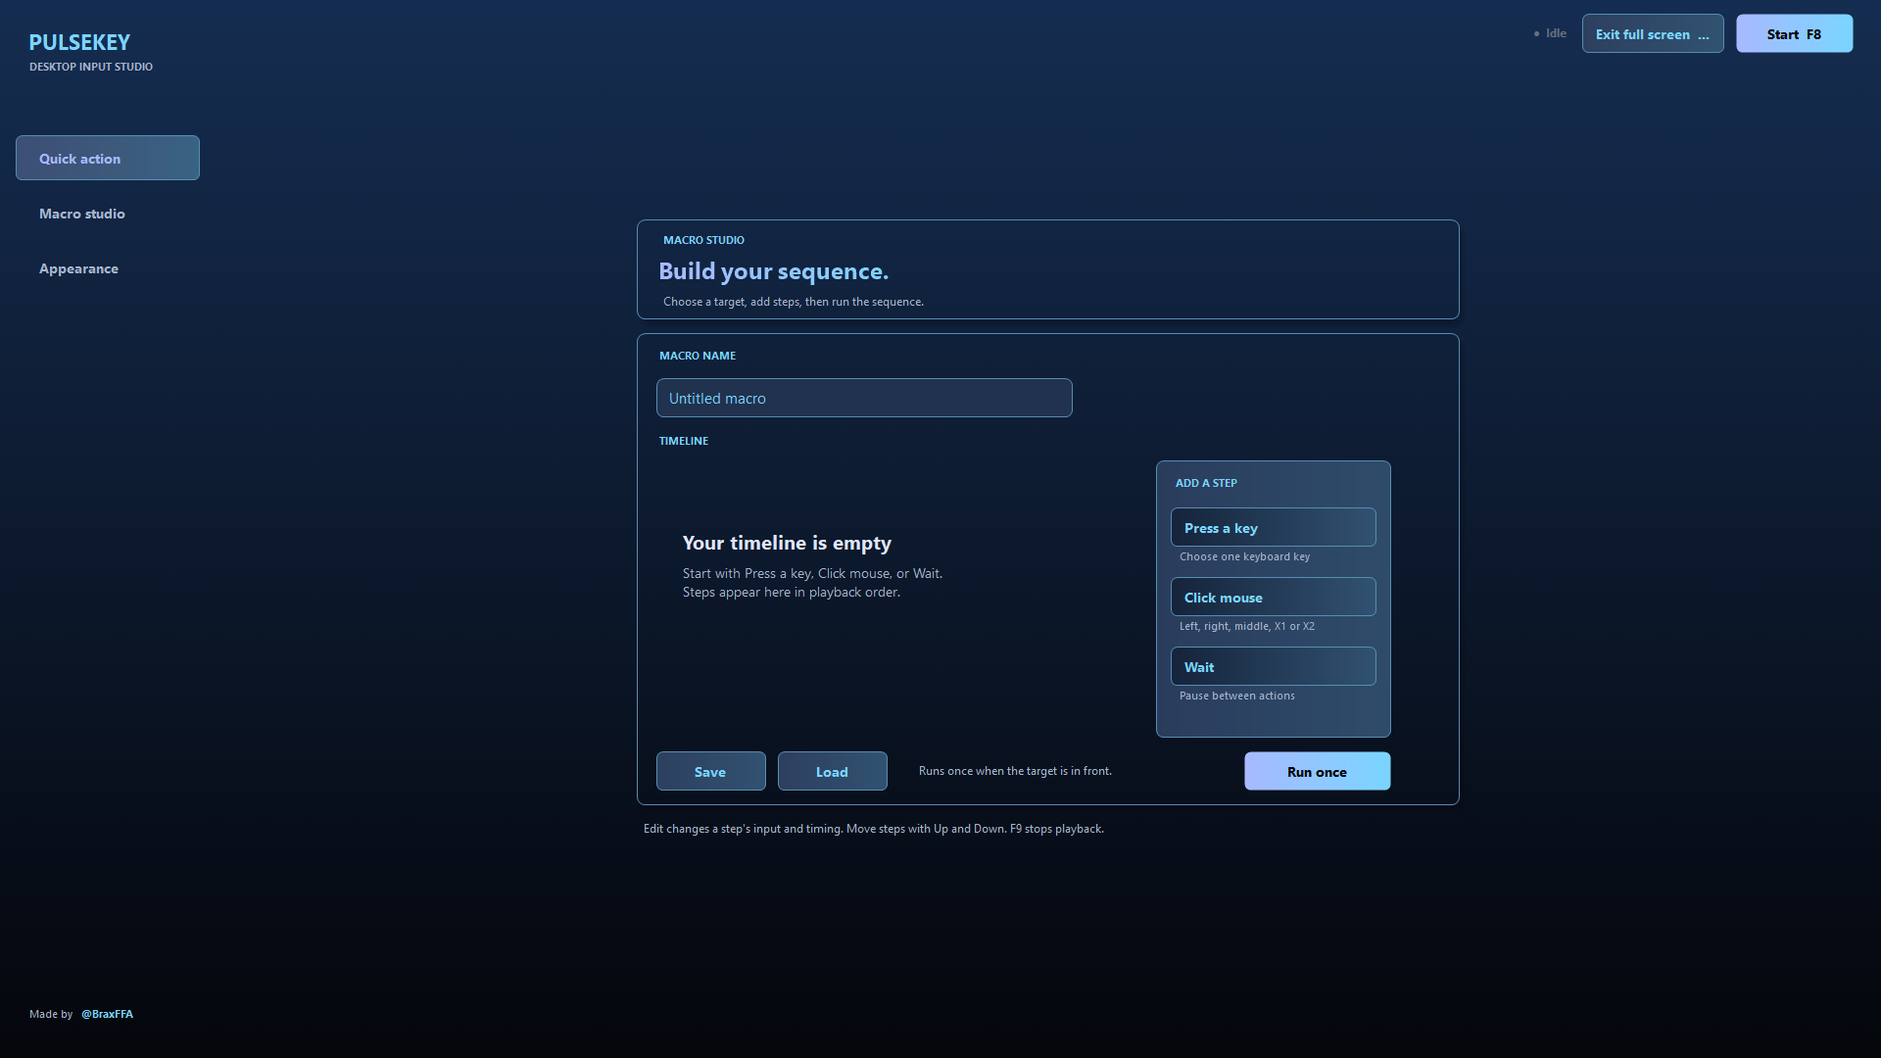
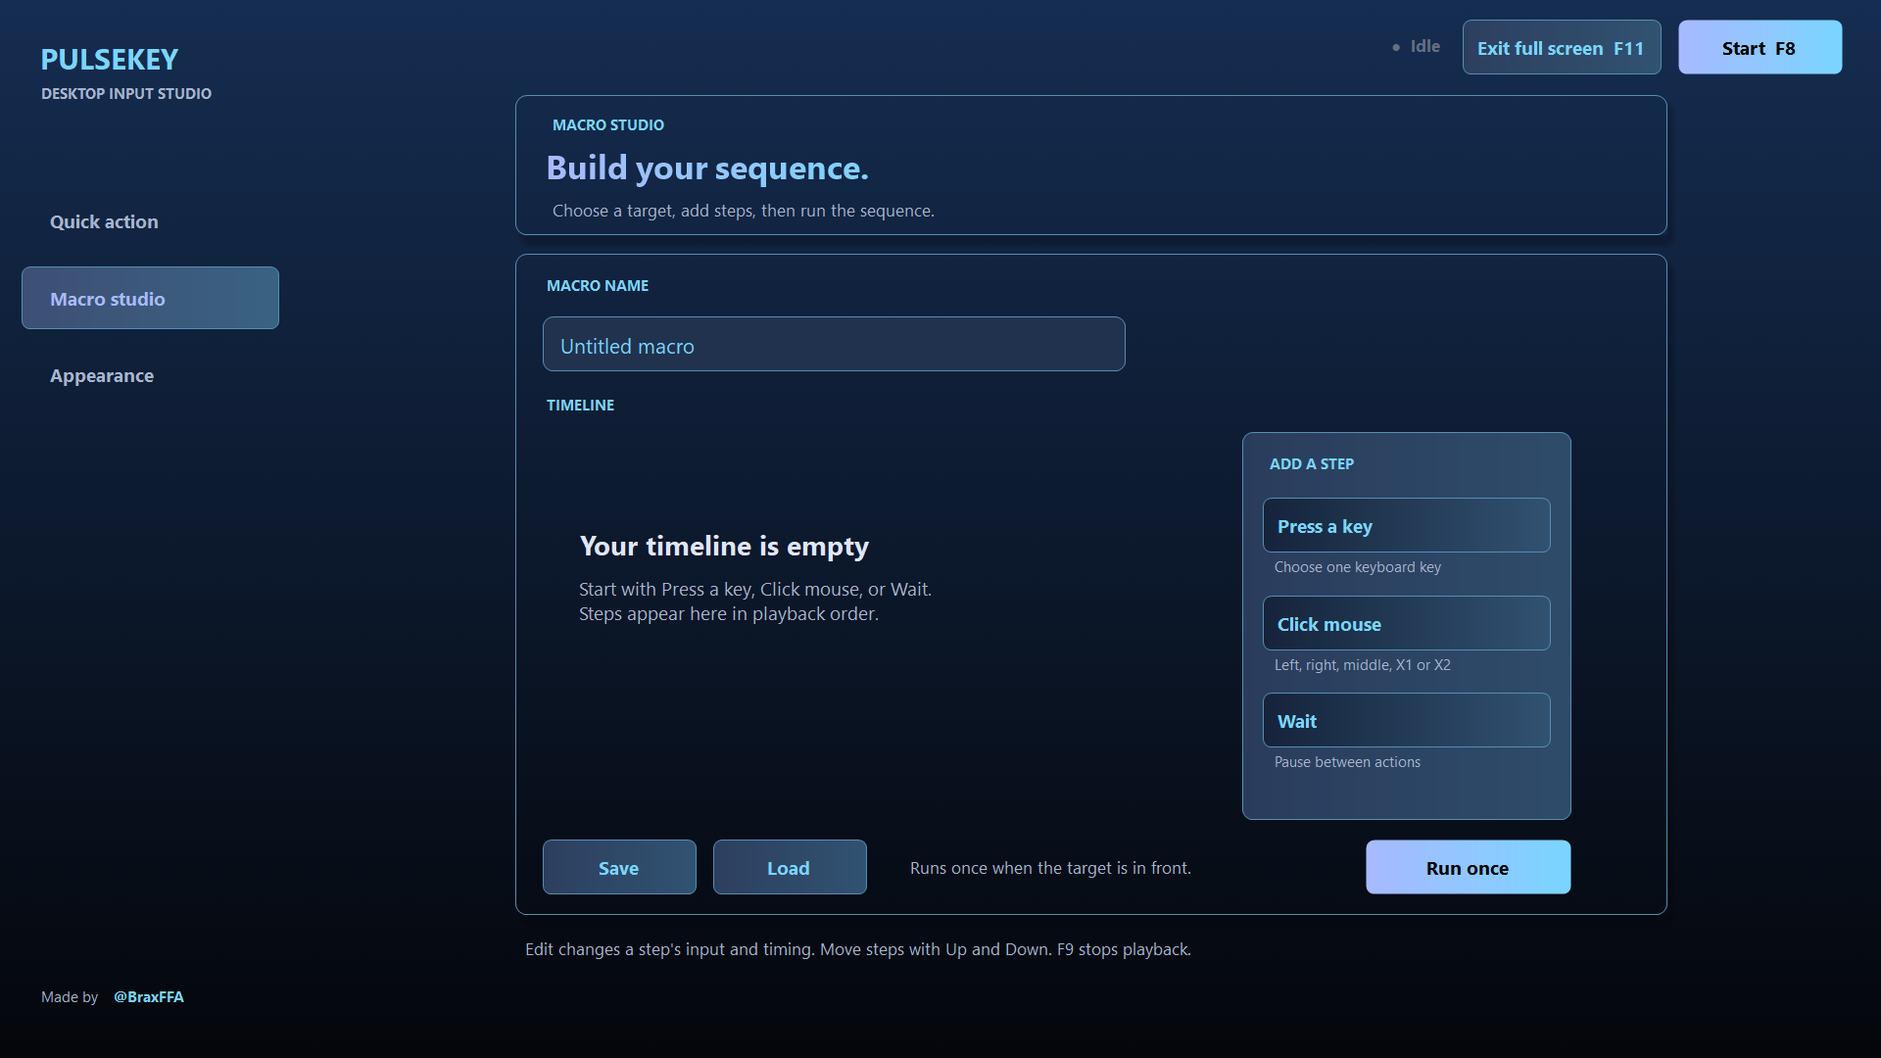
Scale PulseKey interface in full screen

diff --git a/src/PulseKey.cs b/src/PulseKey.cs
@@ -19,8 +19,8 @@ using System.Xml.Serialization;
 [assembly: System.Reflection.AssemblyProduct("PulseKey")]
 [assembly: System.Reflection.AssemblyCompany("@BraxFFA")]
 [assembly: System.Reflection.AssemblyCopyright("Copyright (c) 2026 @BraxFFA")]
-[assembly: System.Reflection.AssemblyVersion("1.0.1.0")]
-[assembly: System.Reflection.AssemblyFileVersion("1.0.1.0")]
+[assembly: System.Reflection.AssemblyVersion("1.0.2.0")]
+[assembly: System.Reflection.AssemblyFileVersion("1.0.2.0")]
 
 namespace PulseKey {
     [Serializable]
@@ -302,6 +302,15 @@ namespace PulseKey {
     }
 
     internal sealed class AppForm : Form {
+        private sealed class UiMetrics {
+            public Rectangle Bounds;
+            public Padding Padding;
+            public float FontSize;
+            public FontStyle FontStyle;
+            public string FontFamily;
+            public Font ScaledFont;
+            public int Radius;
+        }
         private static readonly ThemeSpec[] Themes={
             new ThemeSpec("Blue Eclipse","Midnight blue fades smoothly into black with lavender and icy-blue accents.","#152D51","#04060B","#15233B","#20324E","#A8B9FF","#DFE6FA","#A6B5CE","#334866","#79D5FF"),
             new ThemeSpec("Obsidian","Graphite and black with steel-blue and mist-violet accents.","#232B38","#05070A","#1D2633","#2A3748","#A7BCE0","#E2EAF5","#A7B6C9","#405167","#D9B7FF"),
@@ -325,6 +334,8 @@ namespace PulseKey {
         private readonly RoundedPanel header = new RoundedPanel{Radius=0,PaintCanvas=true};
         private RoundedPanel hero;
         private Label status = new Label();
+        private Label madeBy;
+        private LinkLabel author;
         private RoundedButton startButton = new RoundedButton();
         private RoundedButton fullscreenButton = new RoundedButton();
         private RoundedSelect targetBox, mouseBox;
@@ -350,10 +361,15 @@ namespace PulseKey {
         private Size previousMinimumSize;
         private FormWindowState previousWindowState;
         private FormBorderStyle previousBorderStyle;
+        private readonly Dictionary<Control,UiMetrics> uiMetrics=new Dictionary<Control,UiMetrics>();
+        private Size baseClientSize;
+        private float uiScale=1f;
+        private bool scaleQueued,buildingPage;
 
         public AppForm() {
             LoadSettings(); ApplyColors();
             Text = "PulseKey"; Size = new Size(1100,810); MinimumSize = new Size(1100,780);
+            baseClientSize=ClientSize;
             StartPosition = FormStartPosition.CenterScreen; Font = new Font("Segoe UI",10);
             AutoScaleMode = AutoScaleMode.Dpi; Icon = MakeIcon();
             root.Dock = DockStyle.Fill; root.BackColor = bg; Controls.Add(root);
@@ -365,6 +381,8 @@ namespace PulseKey {
             actionTimer.Tick += ActionTick;
             header.Resize += (s,e)=>LayoutHeader();
             content.Resize += (s,e)=>LayoutWorkspace();
+            sidebar.Resize += (s,e)=>LayoutSidebarFooter();
+            Resize += (s,e)=>QueueUiScale();
             Shown += (s,e) => { TintTitleBar();
                 bool startHotkey=Native.RegisterHotKey(Handle,1,0,(uint)Keys.F8), stopHotkey=Native.RegisterHotKey(Handle,2,0,(uint)Keys.F9);
                 RefreshTargets(); if(!startHotkey||!stopHotkey)MessageBox.Show(this,"F8 or F9 is already in use. Close the conflicting app and restart PulseKey. The on-screen buttons still work.","Hotkey unavailable",MessageBoxButtons.OK,MessageBoxIcon.Warning); };
@@ -400,25 +418,81 @@ namespace PulseKey {
             b.Click+=click; return b;
         }
         private void ClearControls(Control parent) {
-            while(parent.Controls.Count>0) { Control child=parent.Controls[0];parent.Controls.RemoveAt(0);child.Dispose(); }
+            while(parent.Controls.Count>0) { Control child=parent.Controls[0];UnregisterUiTree(child);parent.Controls.RemoveAt(0);child.Dispose(); }
+        }
+        private int Ui(int pixels){return (int)Math.Round(pixels*uiScale);}
+        private static int Scaled(int pixels,float scale){return (int)Math.Round(pixels*scale);}
+        private static Padding Scaled(Padding value,float scale){return new Padding(Scaled(value.Left,scale),Scaled(value.Top,scale),Scaled(value.Right,scale),Scaled(value.Bottom,scale));}
+        private void RegisterUiTree(Control parent){
+            foreach(Control child in parent.Controls){
+                if(!uiMetrics.ContainsKey(child))uiMetrics.Add(child,new UiMetrics{
+                    Bounds=child.Bounds,Padding=child.Padding,FontSize=child.Font.SizeInPoints,
+                    FontStyle=child.Font.Style,FontFamily=child.Font.FontFamily.Name,
+                    Radius=child is RoundedPanel?((RoundedPanel)child).Radius:child is RoundedButton?((RoundedButton)child).Radius:0
+                });
+                RegisterUiTree(child);
+            }
+        }
+        private void UnregisterUiTree(Control control){
+            foreach(Control child in control.Controls)UnregisterUiTree(child);
+            UiMetrics metrics;
+            if(uiMetrics.TryGetValue(control,out metrics)){
+                if(metrics.ScaledFont!=null)metrics.ScaledFont.Dispose();
+                uiMetrics.Remove(control);
+            }
+        }
+        private void ScaleUiTree(Control parent){
+            foreach(Control child in parent.Controls){
+                UiMetrics metrics;
+                if(!uiMetrics.TryGetValue(child,out metrics))continue;
+                if(child is Label||child is TextBox||child is RoundedButton||child is RoundedSelect){
+                    Font previous=metrics.ScaledFont;
+                    metrics.ScaledFont=new Font(metrics.FontFamily,metrics.FontSize*uiScale,metrics.FontStyle);
+                    child.Font=metrics.ScaledFont;
+                    if(previous!=null)previous.Dispose();
+                }
+                child.Padding=Scaled(metrics.Padding,uiScale);
+                if(child is RoundedPanel)((RoundedPanel)child).Radius=Ui(metrics.Radius);
+                else if(child is RoundedButton)((RoundedButton)child).Radius=Ui(metrics.Radius);
+                Rectangle b=metrics.Bounds;
+                if(parent==content&&child.Tag is Point)child.Height=Ui(b.Height);
+                else child.SetBounds(Ui(b.Left),Ui(b.Top),Ui(b.Width),Ui(b.Height));
+                ScaleUiTree(child);
+            }
+        }
+        private void QueueUiScale(){
+            if(!IsHandleCreated||scaleQueued)return;
+            scaleQueued=true;
+            BeginInvoke((Action)(()=>{scaleQueued=false;if(!IsDisposed)UpdateUiScale();}));
+        }
+        private void UpdateUiScale(){
+            if(baseClientSize.Width<1||baseClientSize.Height<1)return;
+            float minimum=fullscreen?.55f:1f;
+            float next=Math.Max(minimum,Math.Min(1.9f,Math.Min((float)ClientSize.Width/Math.Max(baseClientSize.Width,1116),(float)ClientSize.Height/baseClientSize.Height)));
+            next=(float)Math.Round(next*20f)/20f;
+            if(Math.Abs(next-uiScale)<.01f){LayoutHeader();LayoutSidebarFooter();LayoutWorkspace();return;}
+            uiScale=next;
+            sidebar.Width=Ui(220);header.Height=Ui(68);
+            ScaleUiTree(sidebar);ScaleUiTree(header);ScaleUiTree(content);
+            LayoutHeader();LayoutSidebarFooter();LayoutWorkspace();
         }
         private void AddShadow(Control parent,int left,int top,int width,int height) {
             CardShadow shadow=new CardShadow { Width=width+5,Height=height+6,Anchor=AnchorStyles.Top|AnchorStyles.Left };
             parent.Controls.Add(shadow);
             PlaceWorkspace(shadow,left+2,top+4);
         }
-        private int WorkspaceWidth(){return Math.Max(500,Math.Min(840,content.ClientSize.Width-56));}
+        private int WorkspaceWidth(){return Math.Max(Ui(500),Math.Min(Ui(840),content.ClientSize.Width-Ui(56)));}
         private int WorkspaceLeft(){return Math.Max(0,(content.ClientSize.Width-WorkspaceWidth())/2);}
-        private int WorkspaceTop(){return Math.Max(0,(content.ClientSize.Height-700)/2);}
-        private void PlaceWorkspace(Control control,int x,int y){control.Tag=new Point(x,y);control.Left=WorkspaceLeft()+x;control.Top=WorkspaceTop()+y;}
+        private int WorkspaceTop(){return Math.Max(0,(content.ClientSize.Height-Ui(700))/2);}
+        private void PlaceWorkspace(Control control,int x,int y){control.Tag=new Point(x,y);control.Left=WorkspaceLeft()+Ui(x);control.Top=WorkspaceTop()+Ui(y);}
         private void LayoutWorkspace(){
             int width=WorkspaceWidth();
             foreach(Control control in content.Controls){
                 if(!(control.Tag is Point))continue;
                 Point position=(Point)control.Tag;
-                control.Left=WorkspaceLeft()+position.X;
-                control.Top=WorkspaceTop()+position.Y;
-                if(control is CardShadow)control.Width=width+5;
+                control.Left=WorkspaceLeft()+Ui(position.X);
+                control.Top=WorkspaceTop()+Ui(position.Y);
+                if(control is CardShadow)control.Width=width+Ui(5);
                 else if(control is RoundedPanel)control.Width=width;
             }
             content.Invalidate();
@@ -447,23 +521,29 @@ namespace PulseKey {
             Label sub=Label("DESKTOP INPUT STUDIO",8,true); sub.ForeColor=muted; Put(sidebar,sub,27,61);
             string[] pages={"Quick action","Macro studio","Appearance"};
             for(int i=0;i<pages.Length;i++) { string name=pages[i]; RoundedButton b=Button(name,(s,e)=>{page=name;BuildShell();BuildPage();}); b.TextAlign=ContentAlignment.MiddleLeft; b.Width=188; b.Height=46; b.Left=16; b.Top=138+i*56; b.Padding=new Padding(10,0,0,0); b.BackColor=page==name?Shape.Blend(surface2,accent,.22f):surface2; b.FillEnd=page==name?Shape.Blend(surface2,accentAlt,.30f):Color.Transparent; b.ForeColor=page==name?accent:muted;b.Outline=page==name?secondaryLine:Color.Transparent;b.TransparentFill=page!=name; sidebar.Controls.Add(b); }
-            int footerTop=sidebar.Height-52;
-            Label madeBy=Label("Made by",8);madeBy.ForeColor=muted;Put(sidebar,madeBy,27,footerTop);madeBy.Anchor=AnchorStyles.Bottom|AnchorStyles.Left;
-            LinkLabel author=new LinkLabel{Text="@BraxFFA",AutoSize=true,BackColor=Color.Transparent,Font=new Font("Segoe UI",8,FontStyle.Bold),LinkColor=accentAlt,ActiveLinkColor=accent,VisitedLinkColor=accentAlt,LinkBehavior=LinkBehavior.HoverUnderline,TabStop=true};
+            madeBy=Label("Made by",8);madeBy.ForeColor=muted;Put(sidebar,madeBy,27,0);madeBy.Anchor=AnchorStyles.Bottom|AnchorStyles.Left;
+            author=new LinkLabel{Text="@BraxFFA",AutoSize=true,BackColor=Color.Transparent,Font=new Font("Segoe UI",8,FontStyle.Bold),LinkColor=accentAlt,ActiveLinkColor=accent,VisitedLinkColor=accentAlt,LinkBehavior=LinkBehavior.HoverUnderline,TabStop=true};
             author.LinkArea=new LinkArea(0,author.Text.Length);
             author.LinkClicked+=(s,e)=>{try{Process.Start(new ProcessStartInfo("https://linktr.ee/BraxFFA"){UseShellExecute=true});}catch{MessageBox.Show(this,"Could not open the link in your default browser.","Open link",MessageBoxButtons.OK,MessageBoxIcon.Information);}};
-            Put(sidebar,author,80,footerTop);author.Anchor=AnchorStyles.Bottom|AnchorStyles.Left;
+            Put(sidebar,author,80,0);author.Anchor=AnchorStyles.Bottom|AnchorStyles.Left;
             status=Label("●  Idle",9,true); status.ForeColor=muted; status.AutoSize=false; status.TextAlign=ContentAlignment.MiddleRight; status.Width=145; status.Height=40; status.Top=13; status.Anchor=AnchorStyles.Top|AnchorStyles.Right; header.Controls.Add(status);
             startButton=Button("Start  F8",(s,e)=>Toggle(),true); startButton.Width=120; startButton.Top=14; startButton.Anchor=AnchorStyles.Top|AnchorStyles.Right; header.Controls.Add(startButton);
             fullscreenButton=Button(fullscreen?"Exit full screen  F11":"Full screen  F11",(s,e)=>ToggleFullscreen()); fullscreenButton.Width=145;fullscreenButton.Top=14;fullscreenButton.Anchor=AnchorStyles.Top|AnchorStyles.Right;header.Controls.Add(fullscreenButton);
-            LayoutHeader();
+            RegisterUiTree(sidebar);RegisterUiTree(header);
+            ScaleUiTree(sidebar);ScaleUiTree(header);
+            LayoutHeader();LayoutSidebarFooter();
             UpdateStatus();
         }
         private void LayoutHeader(){
             if(startButton==null||startButton.IsDisposed||fullscreenButton==null||fullscreenButton.IsDisposed||status==null||status.IsDisposed)return;
-            startButton.Left=header.ClientSize.Width-148;
-            fullscreenButton.Left=startButton.Left-157;
-            status.Left=fullscreenButton.Left-157;
+            startButton.Left=header.ClientSize.Width-Ui(28)-startButton.Width;
+            fullscreenButton.Left=startButton.Left-Ui(12)-fullscreenButton.Width;
+            status.Left=fullscreenButton.Left-Ui(12)-status.Width;
+        }
+        private void LayoutSidebarFooter(){
+            if(madeBy==null||author==null||madeBy.IsDisposed||author.IsDisposed)return;
+            madeBy.Top=sidebar.ClientSize.Height-Ui(52);
+            author.Top=madeBy.Top;
         }
         private void ToggleFullscreen(){
             if(!fullscreen){
@@ -476,7 +556,7 @@ namespace PulseKey {
                 MinimumSize=previousMinimumSize;Bounds=previousBounds;WindowState=previousWindowState;fullscreen=false;
             }
             if(fullscreenButton!=null&&!fullscreenButton.IsDisposed)fullscreenButton.Text=fullscreen?"Exit full screen  F11":"Full screen  F11";
-            LayoutWorkspace();
+            UpdateUiScale();
         }
         protected override bool ProcessCmdKey(ref Message msg,Keys keyData){
             if(keyData==Keys.F11){ToggleFullscreen();return true;}
@@ -484,7 +564,10 @@ namespace PulseKey {
         }
         private void BuildPage() {
             ClearControls(content);
+            buildingPage=true;
             if(page=="Quick action") BuildQuick(); else if(page=="Macro studio") BuildMacro(); else BuildAppearance();
+            buildingPage=false;
+            RegisterUiTree(content);ScaleUiTree(content);LayoutWorkspace();
         }
         private void BuildQuick() {
             hero=Hero(0,108);
@@ -576,6 +659,7 @@ namespace PulseKey {
             if(macro.Steps.Count==0){
                 Label emptyTitle=Label("Your timeline is empty",15,true);emptyTitle.ForeColor=textColor;Put(stepsHost,emptyTitle,22,68);
                 Label emptyBody=Label("Start with Press a key, Click mouse, or Wait.\nSteps appear here in playback order.",10);emptyBody.ForeColor=muted;Put(stepsHost,emptyBody,23,105);
+                if(!buildingPage){RegisterUiTree(stepsHost);ScaleUiTree(stepsHost);}
                 return;
             }
             for(int i=0;i<macro.Steps.Count;i++){
@@ -590,6 +674,7 @@ namespace PulseKey {
                 RoundedButton down=Button("Down",(s,e)=>MoveStep(index,1));Put(row,down,335,15,55);down.Height=32;
                 RoundedButton remove=Button("Remove",(s,e)=>RemoveStep(index));Put(row,remove,394,15,72);remove.Height=32;
             }
+            if(!buildingPage){RegisterUiTree(stepsHost);ScaleUiTree(stepsHost);}
         }
         private void AddKeyStep() { Keys? k=CaptureKey();if(k.HasValue){macro.Steps.Add(new MacroStep{Kind="Key",Value=k.Value.ToString(),DelayMs=100});RefreshSteps();} }
         private void AddMouseStep() {

diff --git a/README.md b/README.md
@@ -10,7 +10,7 @@ PulseKey is a portable 64-bit Windows app built with Windows Forms and the .NET 
 
 ## Download
 
-Get `PulseKey-v1.0.1-win-x64.zip` from [Releases](../../releases). Extract it to a folder, then run `PulseKey.exe`. A standalone executable and `SHA256SUMS-v1.0.1.txt` are also attached to the release.
+Get `PulseKey-v1.0.2-win-x64.zip` from [Releases](../../releases). Extract it to a folder, then run `PulseKey.exe`. A standalone executable and `SHA256SUMS-v1.0.2.txt` are also attached to the release.
 
 > Windows may display a SmartScreen prompt for an unsigned app. Review the source and the release checksum before choosing whether to run it. The release is not code signed.
 
@@ -27,7 +27,7 @@ Get `PulseKey-v1.0.1-win-x64.zip` from [Releases](../../releases). Extract it to
 - **States:** **Idle** means stopped, **Armed** means waiting for the selected window, and **Active** means output is running while that window is in front.
 - **Target scope:** PulseKey enumerates ordinary visible top-level windows. It pauses output when the target loses focus and stops if that window closes.
 - **Portable:** One executable, an icon, and a local settings file. No telemetry or automatic network requests.
-- **Large-window layout:** Maximizing or entering full screen centers the working cards and keeps the entire window themed.
+- **Large-window layout:** Maximizing or entering full screen grows the cards, controls, text, sidebar, and header to fit the display while keeping the working area centered.
 
 ## Quick start
 
@@ -41,11 +41,11 @@ For macros, open **Macro studio**, add steps to the timeline, and use **Run once
 
 ## Screenshots
 
-| Macro studio in full screen | Theme picker |
+| Macro studio in full screen | Theme picker in full screen |
 | --- | --- |
-| ![Macro studio in full screen](docs/images/fullscreen-macro.png) | ![Appearance](docs/images/appearance.png) |
+| ![Macro studio in full screen](docs/images/fullscreen-macro.png) | ![Appearance in full screen](docs/images/fullscreen-appearance.png) |
 
-[See all 15 themes](docs/images/all-themes.png) · [Neon Orchid](docs/images/neon-orchid.png) · [Blackout](docs/images/blackout.png)
+[Shift macro step in full screen](docs/images/fullscreen-shift-step.png) · [See all 15 themes](docs/images/all-themes.png) · [Neon Orchid](docs/images/neon-orchid.png) · [Blackout](docs/images/blackout.png)
 
 ## Input and game compatibility
 

diff --git a/docs/BUILD.md b/docs/BUILD.md
@@ -18,7 +18,7 @@ The script writes `dist\PulseKey.exe`. It locates the 64-bit .NET Framework comp
 & "$env:WINDIR\Microsoft.NET\Framework64\v4.0.30319\csc.exe" /nologo /target:winexe /platform:x64 /win32icon:assets\PulseKey.ico /r:System.Windows.Forms.dll /r:System.Drawing.dll /r:System.Xml.dll /out:dist\PulseKey.exe src\PulseKey.cs
 ```
 
-The assembly version is `1.0.1.0`; the package/release tag is `v1.0.1`. The executable is not code signed. Build on a trusted Windows machine and compare release checksums with the attached `SHA256SUMS-v1.0.1.txt` if you download a prebuilt package.
+The assembly version is `1.0.2.0`; the package/release tag is `v1.0.2`. The executable is not code signed. Build on a trusted Windows machine and compare release checksums with the attached `SHA256SUMS-v1.0.2.txt` if you download a prebuilt package.
 
 ## Manual smoke test
 
@@ -27,6 +27,6 @@ The assembly version is `1.0.1.0`; the package/release tag is `v1.0.1`. The exec
 3. Select an ordinary test app window, use a harmless key or mouse input, and verify **Idle → Armed → Active**. Confirm `F9` releases it.
 4. Build, save, reload, edit, and run a small macro against a test app.
 5. Switch themes, close and reopen PulseKey, and verify the choice persists.
-6. Maximize the app and toggle `F11`; verify the cards stay centered and the previous window size returns. Capture Shift in Macro studio and confirm the timeline displays **Press Shift**.
+6. Maximize the app and toggle `F11`; verify the cards, controls, text, sidebar, and header grow, then return to normal size on exit. Capture Shift in Macro studio and confirm the scaled timeline displays **Press Shift**.
 
 Input behavior depends on the receiving application and cannot be proven from compilation alone. Do not use a protected game as a smoke-test target.

diff --git a/docs/USAGE.md b/docs/USAGE.md
@@ -10,7 +10,7 @@
 
 The action pauses if another window comes to the front. In Hold mode, PulseKey releases the held input on focus loss. If the chosen window closes, the action stops. Reopen or refresh the target list before starting again.
 
-Use the native maximize button to enlarge the app while keeping its title bar, or use **Full screen** / `F11` for a borderless full-display view. Press `F11` again or use **Exit full screen** to restore the previous window size. The cards stay centered at large sizes.
+Use the native maximize button to enlarge the app while keeping its title bar, or use **Full screen** / `F11` for a borderless full-display view. Press `F11` again or use **Exit full screen** to restore the previous window size. The cards, controls, text, sidebar, and header grow with the window and return to their original size when restored.
 
 ## Macro studio
 

diff --git a/docs/TROUBLESHOOTING.md b/docs/TROUBLESHOOTING.md
@@ -18,7 +18,7 @@ Another program may already have registered the key. PulseKey warns at startup i
 
 ## Full screen looks wrong or the title bar is missing
 
-Use `F11` or **Exit full screen** to return to the prior window state. The native maximize button keeps the title bar; `F11` fills the whole display and intentionally hides it. The working cards remain centered at large window sizes.
+Use `F11` or **Exit full screen** to return to the prior window state. The native maximize button keeps the title bar; `F11` fills the whole display and intentionally hides it. Version 1.0.2 also enlarges the cards, controls, and text to match the display. If only the background grows, install the latest release.
 
 ## Shift does not appear in a macro
 

diff --git a/CHANGELOG.md b/CHANGELOG.md
@@ -1,5 +1,12 @@
 # Changelog
 
+## v1.0.2 — 2026-10-10
+
+- Made the whole interface scale with a maximized or full-screen window: working cards, buttons, fields, macro timeline, theme tiles, text, sidebar, and header.
+- Restored the original control sizes when leaving full screen or returning to the normal window size.
+- Kept the scaled workspace centered and reduced needless redraws by updating the scale in small increments during resizing.
+- Added full-screen screenshots for the theme picker and a Shift macro step.
+
 ## v1.0.1 — 2026-10-10
 
 - Added F11 and a visible button for true borderless full screen, with restoration of the prior window state.
